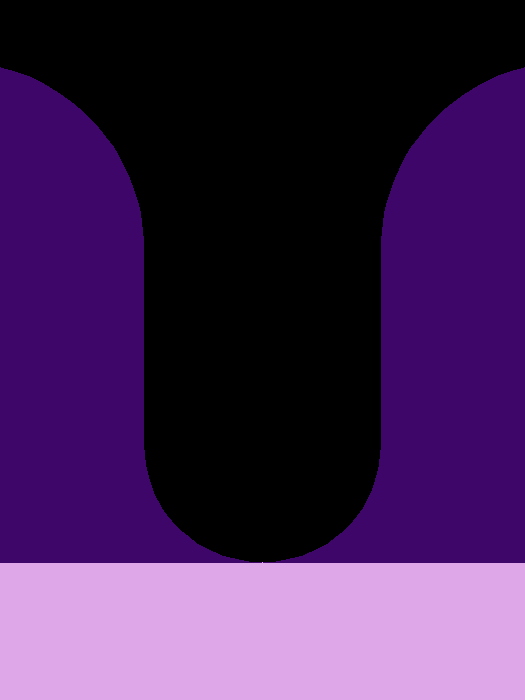
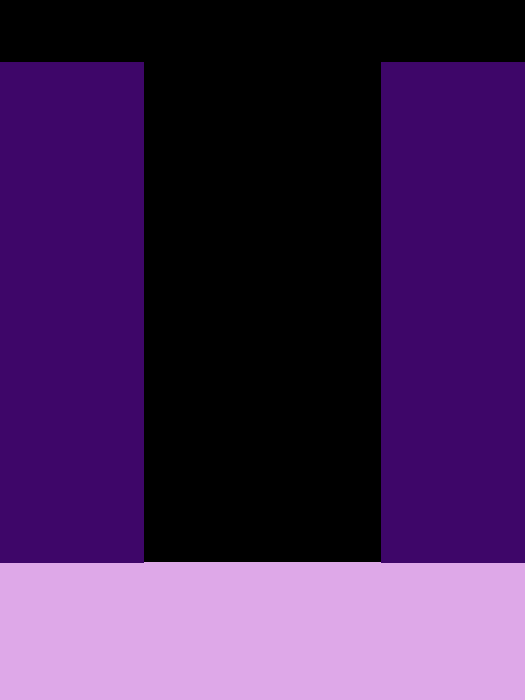
Fix .exe build: keep version_info.txt pure ASCII (was em-dash, byte 0x97)
PyInstaller reads build/version_info.txt as Python source and requires ASCII / an encoding
declaration. The generated file contained em-dashes (—, 0x97) in the header comment and in
FileDescription 'Profile Studio — Incoming Profile Utility', so the build died with
'SyntaxError: invalid or missing encoding declaration' on Dagger's Windows machine.

- tools/make_version_info.py: replaced both em-dashes with ' - ', added a UTF-8 coding header,
  and force the written file through ascii/replace so a non-ASCII APP_NAME can never poison it
  again. Regenerated output verified to contain zero bytes > 127.
- build/version_info.txt is gitignored and regenerated by build_exe.bat before PyInstaller
  runs, so the fixed generator is what ships.

diff --git a/tools/build_all_tutorials.js b/tools/build_all_tutorials.js
@@ -8,6 +8,8 @@ const {
 const NAVY="12233B", BLUE="3E5C86", GREEN="2E9E77", INK="1F2A38", MUT="6B7A8D",
       LINE="CBD6E4", PANEL="F6F9FD", GREENBG="EAF6F0";
 const F="Arial";
+// docx v9 requires BOTH an explicit type and a Node Buffer here — dropping either silently
+// emits zero images (verified). Do not "modernise" this to a Uint8Array or a typeless ImageRun.
 const img=(p,w,h)=>new ImageRun({type:"png",data:fs.readFileSync(p),transformation:{width:w,height:h}});
 const T=(t,o={})=>new TextRun({text:t,size:20,font:F,color:INK,...o});
 const B=t=>T(t,{bold:true});
@@ -17,9 +19,47 @@ const noBorder=()=>["top","bottom","left","right","insideHorizontal","insideVert
 
 const eyebrow=t=>new Paragraph({spacing:{after:30},children:[new TextRun({text:t,color:BLUE,size:16,font:F,bold:true,characterSpacing:20})]});
 const title=t=>new Paragraph({spacing:{after:60},children:[new TextRun({text:t,color:NAVY,size:38,font:F,bold:true})]});
+
+// ---- version (kept in step with the app) ----
+const VERSION = (()=>{ try{
+  const s=fs.readFileSync("src/incoming_profile_utility/__init__.py","utf8");
+  const v=s.match(/__version__\s*=\s*"([^"]+)"/), d=s.match(/__build_date__\s*=\s*"([^"]+)"/);
+  return {v:v?v[1]:"", d:d?d[1]:""};
+}catch(e){ return {v:"",d:""}; } })();
+
+// Branded masthead: the REAL SandBox logo (never recreated as text) on the left, the tutorial
+// eyebrow + a version chip on the right, over a thin green rule — matching the application header.
+function masthead(eyebrowText){
+  const LOGO="assets/sandbox-logo.png";
+  const hasLogo=fs.existsSync(LOGO);
+  const left=new TableCell({width:{size:3200,type:WidthType.DXA},verticalAlign:VerticalAlign.CENTER,borders:noBorder(),
+    children:[new Paragraph({children:[ hasLogo?img(LOGO,150,43):new TextRun({text:"SandBox",bold:true,color:NAVY,size:30,font:F}) ]})]});
+  const right=new TableCell({width:{size:6840,type:WidthType.DXA},verticalAlign:VerticalAlign.CENTER,borders:noBorder(),
+    children:[
+      new Paragraph({alignment:AlignmentType.RIGHT,spacing:{after:20},children:[
+        new TextRun({text:eyebrowText,color:BLUE,size:16,font:F,bold:true,characterSpacing:20})]}),
+      new Paragraph({alignment:AlignmentType.RIGHT,children:[
+        new TextRun({text:`Profile Studio  v${VERSION.v}`,color:MUT,size:15,font:F})]}),
+    ]});
+  return [
+    new Table({width:{size:10040,type:WidthType.DXA},columnWidths:[3200,6840],borders:noBorder(),
+      rows:[new TableRow({children:[left,right]})]}),
+    new Paragraph({spacing:{before:40,after:110},border:{bottom:{style:BorderStyle.SINGLE,size:10,color:GREEN,space:6}},
+      children:[new TextRun({text:"",size:2})]}),
+  ];
+}
+function footer(){
+  return new Paragraph({spacing:{before:220},border:{top:{style:BorderStyle.SINGLE,size:6,color:LINE,space:8}},
+    alignment:AlignmentType.CENTER,children:[
+      new TextRun({text:"STRICTLY CONFIDENTIAL",bold:true,color:MUT,size:14,font:F,characterSpacing:14}),
+      new TextRun({text:`     ·     © 2026 SandBox Semiconductor, Inc.     ·     Profile Studio v${VERSION.v} (${VERSION.d})`,
+        color:MUT,size:14,font:F}),
+    ]});
+}
+
 const sub=t=>new Paragraph({spacing:{after:60},children:[new TextRun({text:t,color:MUT,size:20,font:F})]});
 const rule=()=>new Paragraph({spacing:{after:150},border:{bottom:{style:BorderStyle.SINGLE,size:6,color:LINE,space:8}},children:[new TextRun({text:"",size:2})]});
-const sect=t=>new Paragraph({spacing:{before:170,after:70},children:[
+const sect=t=>new Paragraph({spacing:{before:140,after:60},children:[
   new TextRun({text:"▍",color:GREEN,size:22,font:F}),
   new TextRun({text:" "+t,color:NAVY,size:23,font:F,bold:true})]});
 const body=runs=>new Paragraph({spacing:{after:70},children:runs});
@@ -48,19 +88,19 @@ function tipsBox(lines){
     rows:[new TableRow({children:[new TableCell({width:{size:10040,type:WidthType.DXA},shading:{type:ShadingType.CLEAR,fill:GREENBG},
       margins:{top:110,bottom:110,left:150,right:150},children:kids})]})]});
 }
-const PAGE={size:{width:12240,height:15840},margin:{top:1000,bottom:800,left:1100,right:1100}};
+const PAGE={size:{width:12240,height:15840},margin:{top:760,bottom:640,left:1100,right:1100}};
 const D=(children)=>new Document({sections:[{properties:{page:PAGE},children}]});
 const IMG=(process.env.IPU_IMG||"docs/tutorial_img/");   // run tools/gen_tutorial_images.py first
 
 // ---- Tutorial 1 --------------------------------------------------------------
 const doc1=D([
-  eyebrow("SANDBOX · PROFILE STUDIO — TUTORIAL 1"),
+  ...masthead("TUTORIAL 1"),
   title("Building a U-shaped mask profile"),
   sub("Reproduce a flared mask with a rounded (U) opening bottom using the material stack and per-layer shape treatments."),
   rule(),
   panelRow([
-    {path:IMG+"mask_target.png",iw:172,ih:135,cap:"Target — your image"},
-    {path:IMG+"mask_result.png",iw:106,ih:135,cap:"Result in Profile Studio"},
+    {path:IMG+"mask_target.png",iw:150,ih:118,cap:"Target — your image"},
+    {path:IMG+"mask_result.png",iw:93,ih:118,cap:"Result in Profile Studio"},
   ]),
   sect("Steps"),
   step("1",[B("Material stack"),T(" (row 1 = top). Add "),B("indigo"),T(" 200 nm, then "),B("lavender"),T(" 55 nm.")]),
@@ -82,10 +122,10 @@ const doc1=D([
   bullet([B("Save .bmp…"),T(" exports the picture; "),B("Polygons…"),T(" exports the profile as editable vector shapes (SVG) plus exact nm coordinates (JSON).")]),
   gap(),
   tipsBox([
-    "The version pill (top-right) and title bar show your build — quote it when reporting an issue.",
-    "The window starts maximised and is resizable; the preview grows with it. The plot grid itself stays a fixed size — only the axis numbers change.",
-    "Toolbar Save stores the whole project; Save .bmp exports just the picture. Click any colour swatch (on a layer row or in the legend) to recolour that material everywhere; “＋ New material (color)” adds one. Both take a picker or a hex code.",
+    "The window starts maximised and resizable (the preview grows with it); the plot grid stays a fixed size — only the axis numbers change. Your build is in the header pill and title bar — quote it when reporting an issue.",
+    "Save stores the whole project; Save .bmp exports the picture. Click any colour swatch — on a layer row or in the legend — to recolour that material everywhere; “＋ New material (color)” adds one. Both take a picker or a hex code.",
   ]),
+  footer(),
 ]);
 
 // ---- Tutorial 2 --------------------------------------------------------------
@@ -99,7 +139,7 @@ function csvTable(){
       children:[new Paragraph({alignment:AlignmentType.CENTER,children:[new TextRun({text:c,size:18,font:"Consolas",bold:i===0,color:i===0?"FFFFFF":INK})]})]}))}))});
 }
 const doc2=D([
-  eyebrow("SANDBOX · PROFILE STUDIO — TUTORIAL 2"),
+  ...masthead("TUTORIAL 2"),
   title("Using a CSV"),
   sub("Define an arbitrary, curved profile from a width/height trace instead of the rectangular Space opening. A CSV can describe a whole etched profile, not just a simple opening."),
   rule(),
@@ -131,11 +171,12 @@ const doc2=D([
     "Negative width is rejected; ragged rows or blanks are rejected with a clear message.",
     "Points don't need to be pre-sorted — they're ordered by height internally.",
   ]),
+  footer(),
 ]);
 
 // ---- Tutorial 3 --------------------------------------------------------------
 const doc3=D([
-  eyebrow("SANDBOX · PROFILE STUDIO — TUTORIAL 3"),
+  ...masthead("TUTORIAL 3"),
   title("The process stack"),
   sub("After the material stack and opening are built, the process stack transforms the profile step by step — the same idea as real fab steps (deposit, fill, etch, polish)."),
   rule(),
@@ -160,6 +201,7 @@ const doc3=D([
     "Etch with a material selected removes only that material; “(any)” removes whatever it reaches.",
     "Build a superlattice with a Repeat block: e.g. deposit A, deposit B, repeated ×10.",
   ]),
+  footer(),
 ]);
 
 (async()=>{

diff --git a/tools/make_version_info.py b/tools/make_version_info.py
@@ -8,7 +8,7 @@ from incoming_profile_utility import __version__, __build_date__, APP_NAME
 parts = (__version__.split(".") + ["0", "0", "0", "0"])[:4]
 v = ", ".join(str(int(p)) for p in parts)
 
-TEMPLATE = f'''# Auto-generated by tools/make_version_info.py — do not edit by hand.
+TEMPLATE = f'''# -*- coding: utf-8 -*-\n# Auto-generated by tools/make_version_info.py - do not edit by hand.
 VSVersionInfo(
   ffi=FixedFileInfo(
     filevers=({v}), prodvers=({v}),
@@ -16,7 +16,7 @@ VSVersionInfo(
   kids=[
     StringFileInfo([StringTable('040904B0', [
         StringStruct('CompanyName', 'SandBox Semiconductor'),
-        StringStruct('FileDescription', '{APP_NAME} — Incoming Profile Utility'),
+        StringStruct('FileDescription', '{APP_NAME} - Incoming Profile Utility'),
         StringStruct('FileVersion', '{__version__}'),
         StringStruct('InternalName', 'ProfileStudio'),
         StringStruct('OriginalFilename', 'ProfileStudio.exe'),
@@ -31,5 +31,5 @@ VSVersionInfo(
 if __name__ == "__main__":
     out = Path(__file__).resolve().parents[1] / "build" / "version_info.txt"
     out.parent.mkdir(exist_ok=True)
-    out.write_text(TEMPLATE)
+    out.write_text(TEMPLATE.encode("ascii", "replace").decode("ascii"))
     print("wrote", out)

diff --git a/tools/gen_tutorial_images.py b/tools/gen_tutorial_images.py
@@ -15,8 +15,12 @@ t1=dict(material_layers=[dict(material="indigo",thickness=200,shape=[dict(kind="
                           dict(material="lavender",thickness=55)],
         pitch=210, space=95, top_vacuum=25, opening_depth=200, opening_bottom_radius=47)
 render(t1, [], "mask_result.png", npp=0.4)
-# "target" = same but a touch simpler (what the user is aiming to reproduce)
-render(t1, [], "mask_target.png", npp=0.4)
+# the "target" a user is aiming to reproduce: the same stack but a plain rectangular opening
+# (no rounded top, no U bottom) — so Target vs Result reads as before/after, not two identical images
+t1_target=dict(material_layers=[dict(material="indigo",thickness=200),
+                                dict(material="lavender",thickness=55)],
+               pitch=210, space=95, top_vacuum=25, opening_depth=200, opening_bottom_radius=0)
+render(t1_target, [], "mask_target.png", npp=0.4)
 
 # --- Tutorial 2: CSV trace result (a curved opening) ---
 import numpy as np, pandas as pd, tempfile
